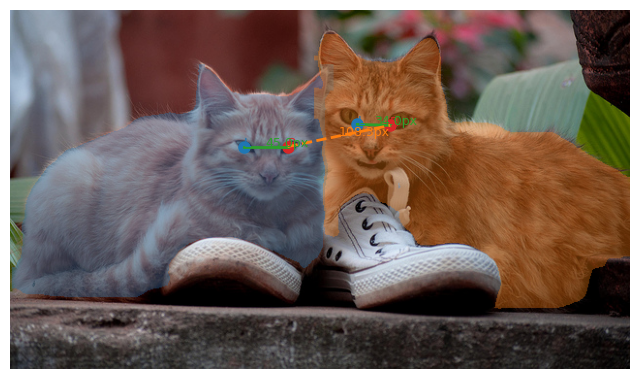
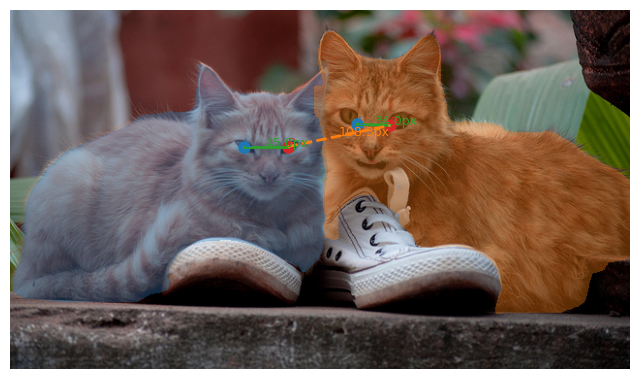
fix: 程式健壯性小修 (M-1, M-2, M-3, M-5, M-6) (#6)
Refs #1

- M-1：_apply_scale 明確區分 scale is None（像素）與 scale<=0（無效→
  raise ValueError），不再因 if scale 把 scale=0 誤當未提供
- M-2：inter_animal_right_eye 的 assert 改為 if ... raise ValueError，
  避免 python -O 下被移除
- M-3：cat cascade 以 _CAT_CASCADE_LOADED 旗標取代 False sentinel + or None
- M-5：matplotlib.image / time / render_overlay 的 import 由迴圈/函式內
  移至模組頂層
- M-6：移除未使用的 pandas（CSV 以標準庫 csv 輸出）
- 註：M-4（影像讀取統一）已於先前合併至 main，本 PR 不重複

e2e（000000555705.jpg）通過；pytest 56 passed（+3 scale 測試）。

diff --git a/src/pipeline.py b/src/pipeline.py
@@ -9,7 +9,9 @@ from __future__ import annotations
 import argparse
 import os
 import sys
+import time
 
+import matplotlib.image as mpimg
 import numpy as np
 
 from src import csv_writer, eye_detector, metrology
@@ -17,6 +19,7 @@ from src import logging_utils as log
 from src.config import Config, set_deterministic
 from src.models import AnimalInstance, Image, ImageStatus, MeasurementRecord
 from src.segmentation import AnimalSegmenter, Detection, mask_to_original
+from src.visualize import render_overlay
 
 
 def build_parser() -> argparse.ArgumentParser:
@@ -145,8 +148,6 @@ def process_image(
         if r.measurable and r.peer_instance_id and r.distance is not None
     ]
 
-    from src.visualize import render_overlay
-
     overlay_path = os.path.join(output_dir, "annotated", f"{image_id}.png")
     render_overlay(image, animals, overlay_path, right_eye_pairs=right_eye_pairs)
 
@@ -214,7 +215,6 @@ def run(args: argparse.Namespace) -> int:
     rows: list[dict[str, str]] = []
     processed = 0
     elapsed_list: list[float] = []
-    import time as _time
 
     # P0-A：--eval 時準備 COCO ground truth（有 annotation 才啟用分割評估）
     pred_masks: list[np.ndarray] = []
@@ -233,9 +233,7 @@ def run(args: argparse.Namespace) -> int:
     for path in inputs:
         image_id = os.path.splitext(os.path.basename(path))[0]
         with log.isolate_failure(image_id):
-            import matplotlib.image as mpimg
-
-            _t0 = _time.perf_counter()
+            _t0 = time.perf_counter()
             # 統一正規化為 uint8 [0,255]：matplotlib.imread 會因檔案格式/Pillow 版本
             # 回傳 float32 [0,1]（常見於 PNG）或 uint8 [0,255]（常見於 JPEG），
             # 下游 detector 以 0–255 灰階為前提，必須在讀取層統一，不讓 detector 猜格式。
@@ -244,7 +242,7 @@ def run(args: argparse.Namespace) -> int:
             img, animals, records = process_image(
                 image, image_id, os.path.basename(path), detections, cfg, cfg.output_dir
             )
-            elapsed_list.append(_time.perf_counter() - _t0)
+            elapsed_list.append(time.perf_counter() - _t0)
             by_id = {a.instance_id: a for a in animals}
             for rec in records:
                 subj = by_id.get(rec.subject_instance_id)

diff --git a/src/metrology.py b/src/metrology.py
@@ -25,10 +25,18 @@ def euclidean(x1: float, y1: float, x2: float, y2: float) -> float:
 
 
 def _apply_scale(distance_px: float, scale: float | None) -> tuple[float, DistanceUnit]:
-    """依比例尺換算距離與單位。無比例尺則回傳像素。"""
-    if scale:
-        return distance_px * scale, DistanceUnit.REAL
-    return distance_px, DistanceUnit.PIXEL
+    """依比例尺換算距離與單位。
+
+    M-1：明確判別 ``scale is None``（未提供）與 ``scale == 0``（無效值）：
+    - None → 以像素為單位回傳。
+    - 0 → 視為無效比例尺，拋出 ValueError（避免把距離全部歸零卻標成 real）。
+    - 其他正值 → 換算為實際單位。
+    """
+    if scale is None:
+        return distance_px, DistanceUnit.PIXEL
+    if scale <= 0:
+        raise ValueError(f"scale 必須為正值（got {scale}）")
+    return distance_px * scale, DistanceUnit.REAL
 
 
 def eye_distance(animal: AnimalInstance, scale: float | None = None) -> MeasurementRecord:
@@ -95,7 +103,9 @@ def inter_animal_right_eye(
 
     records: list[MeasurementRecord] = []
     for a, b in combinations(with_right, 2):
-        assert a.right_eye is not None and b.right_eye is not None
+        if a.right_eye is None or b.right_eye is None:
+            # with_right 已過濾，理論上不會發生；以明確例外取代 assert（-O 下不會被移除，M-2）
+            raise ValueError("inter_animal_right_eye：配對動物缺少右眼座標")
         dist_px = euclidean(a.right_eye.x, a.right_eye.y, b.right_eye.x, b.right_eye.y)
         dist, unit = _apply_scale(dist_px, scale)
         records.append(

diff --git a/src/eye_detector.py b/src/eye_detector.py
@@ -23,13 +23,19 @@ from src.models import EyePoint, EyeSide, EyeSource
 # 視為「貓」的類別（Haar frontalcatface 僅對貓有效）
 CAT_CLASSES = {"cat"}
 
-_CAT_CASCADE = None
+_CAT_CASCADE = None          # 載入後的 cascade；None 表示不可用
+_CAT_CASCADE_LOADED = False  # 是否已嘗試載入（M-3）
 
 
 def _get_cat_cascade():
-    """延遲載入 OpenCV Haar frontalcatface cascade（未裝 opencv 則回傳 None）。"""
-    global _CAT_CASCADE
-    if _CAT_CASCADE is None:
+    """延遲載入 OpenCV Haar frontalcatface cascade（未裝 opencv 則回傳 None）。
+
+    M-3：以 ``_CAT_CASCADE_LOADED`` 旗標記錄「是否已嘗試載入」，
+    快取結果以 None 表示不可用，避免用 ``False`` sentinel + ``or None`` 的模糊寫法。
+    """
+    global _CAT_CASCADE, _CAT_CASCADE_LOADED
+    if not _CAT_CASCADE_LOADED:
+        _CAT_CASCADE_LOADED = True
         try:
             import os
 
@@ -38,8 +44,8 @@ def _get_cat_cascade():
             path = os.path.join(cv2.data.haarcascades, "haarcascade_frontalcatface.xml")
             _CAT_CASCADE = cv2.CascadeClassifier(path)
         except Exception:
-            _CAT_CASCADE = False  # 標記為不可用
-    return _CAT_CASCADE or None
+            _CAT_CASCADE = None  # 不可用
+    return _CAT_CASCADE
 
 
 def _to_gray(image: np.ndarray) -> np.ndarray:

diff --git a/tests/unit/test_metrology.py b/tests/unit/test_metrology.py
@@ -80,6 +80,20 @@ def test_eye_distance_with_scale_real_unit():
     assert rec.distance == pytest.approx(5.0)
 
 
+def test_eye_distance_scale_zero_raises():
+    # M-1：scale=0 為無效比例尺，應拋 ValueError（而非被當成 pixel）
+    a = _animal(EyePoint(side="left", x=0, y=0), EyePoint(side="right", x=10, y=0))
+    with pytest.raises(ValueError):
+        eye_distance(a, scale=0)
+
+
+def test_eye_distance_scale_none_is_pixel():
+    a = _animal(EyePoint(side="left", x=0, y=0), EyePoint(side="right", x=10, y=0))
+    rec = eye_distance(a, scale=None)
+    assert rec.unit == DistanceUnit.PIXEL
+    assert rec.distance == pytest.approx(10.0)
+
+
 def test_eye_distance_propagates_low_confidence():
     a = _animal(
         EyePoint(side="left", x=0, y=0),

diff --git a/outputs/eval_report.md b/outputs/eval_report.md
@@ -4,13 +4,14 @@
 
 - 處理圖片數：1
 - 量測紀錄數：3
-- 單張平均處理時間：5.839s（**僅供參考，含模型載入**）
+- 單張平均處理時間：6.191s（**僅供參考，含模型載入**）
 - **樣本數不足（n=1 < 5），不計 P95**；效能驗收請以多張樣本（建議 ≥20 張）執行 `--eval` 取得具統計意義的 P95。
 
 ## 分割品質（IoU / Dice）與眼睛定位（NME）
 
 - IoU = |A∩B| / |A∪B|；Dice = 2|A∩B| / (|A|+|B|)；NME = 平均點位誤差 / 正規化尺度。
-- IoU（分割，vs COCO 標註，n=1）：0.9299
+- IoU（分割，vs COCO 標註，n=1）：0.9300
 - Dice（分割，vs COCO 標註，n=1）：0.9637
+- **樣本數不足（n=1 < 5），上列 IoU/Dice 僅供參考、不具統計意義**；建議以多張樣本（≥20 張）執行 `--eval` 取得具代表性的分割品質。
 - 眼睛 NME：尚未提供 ground truth（預期於 data\ground_truth，需 ≥10 張以計算 NME）
 - 評估函式見 `src/evaluate.py`（iou / dice / nme / evaluate_segmentation / evaluate_eye_localization）。
